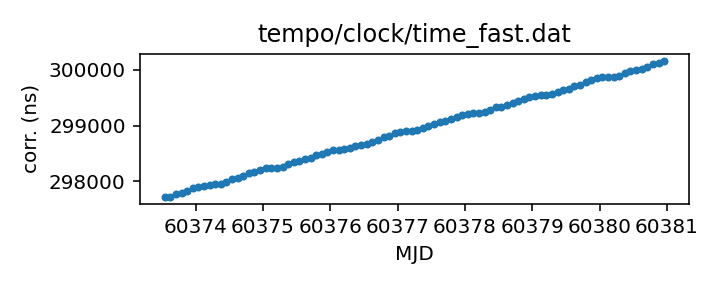
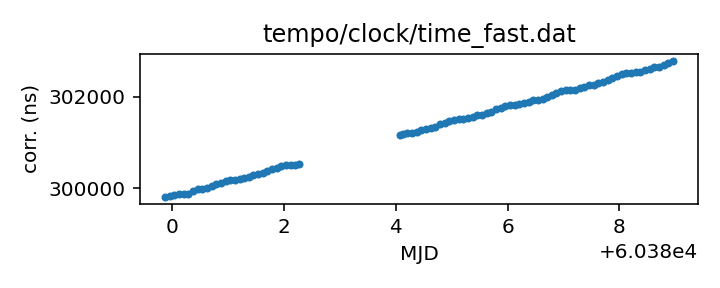
Routine gh-pages update from Github action Thu Mar 21 20:30:21 UTC 2024

diff --git a/status.md b/status.md
@@ -13,17 +13,17 @@ name of each clock file links to a page with more details.
 
 | Name | File | Corrections start | Corrections end | Last check date | Last check result 
 |:--- |:--- | --- | --- | --- |:--- 
-| [GPS to UTC](T2runtime/clock/gps2utc.clk.html) | `T2runtime/clock/gps2utc.clk` | 1993-01-01 MJD 48988.0 | 2024-02-29 MJD 60369.0 | 2024-03-20 | Unchanged 
-| [GPS to UTC (Combined Clock)](T2runtime/clock/gps2utc_cc.clk.html) | `T2runtime/clock/gps2utc_cc.clk` | 1993-01-01 MJD 48988.0 | 2024-02-29 MJD 60369.0 | 2024-03-20 | Unchanged 
-| [GPS to UTC (Corrected)](T2runtime/clock/gps2utc_c0p.clk.html) | `T2runtime/clock/gps2utc_c0p.clk` | 2010-12-29 MJD 55559.0 | 2024-02-29 MJD 60369.0 | 2024-03-20 | Unchanged 
-| [GBT](tempo/clock/time_gbt.dat.html) | `tempo/clock/time_gbt.dat` | 2000-12-31 MJD 51909.5 | 2024-03-19 MJD 60388.5 | 2024-03-20 | Updated 
-| [GBT (TEMPO2 converted from TEMPO)](T2runtime/clock/gbt2gps.clk.html) | `T2runtime/clock/gbt2gps.clk` | 2000-12-31 MJD 51909.5 | 2023-03-20 MJD 60023.5 | 2024-03-20 | **Validation failed** 
-| [Jodrell Bank](T2runtime/clock/jb2gps.clk.html) | `T2runtime/clock/jb2gps.clk` | 2006-10-13 MJD 54021.4 | 2023-12-04 MJD 60282.0 | 2024-03-14 | Unchanged 
-| [Jodrell Bank Roach](T2runtime/clock/jbroach2jb.clk.html) | `T2runtime/clock/jbroach2jb.clk` | 2006-10-13 MJD 54021.4 | 2018-03-20 MJD 58197.6 | 2024-03-14 | Unchanged 
-| [Jodrell Bank DFB](T2runtime/clock/jbdfb2jb.clk.html) | `T2runtime/clock/jbdfb2jb.clk` | 2006-10-13 MJD 54021.4 | 2017-05-11 MJD 57884.0 | 2024-03-14 | Unchanged 
-| [Meerkat (observatory)](T2runtime/clock/mk2utc_observatory.clk.html) | `T2runtime/clock/mk2utc_observatory.clk` | 2019-01-01 MJD 58484.0 | 2024-01-31 MJD 60341.0 | 2024-03-14 | Unchanged 
-| [Leap seconds](tempo/clock/leap.sec.html) | `tempo/clock/leap.sec` | 1972-07-01 MJD 41499.0 | 2017-01-01 MJD 57754.0 | 2024-03-20 | Unchanged 
-| [UT1 table](tempo/clock/ut1.dat.html) | `tempo/clock/ut1.dat` | 1973-01-02 MJD 41684.0 | 2025-03-22 MJD 60756.0 | 2024-03-20 | Unchanged 
+| [GPS to UTC](T2runtime/clock/gps2utc.clk.html) | `T2runtime/clock/gps2utc.clk` | 1993-01-01 MJD 48988.0 | 2024-02-29 MJD 60369.0 | 2024-03-21 | Unchanged 
+| [GPS to UTC (Combined Clock)](T2runtime/clock/gps2utc_cc.clk.html) | `T2runtime/clock/gps2utc_cc.clk` | 1993-01-01 MJD 48988.0 | 2024-02-29 MJD 60369.0 | 2024-03-21 | Unchanged 
+| [GPS to UTC (Corrected)](T2runtime/clock/gps2utc_c0p.clk.html) | `T2runtime/clock/gps2utc_c0p.clk` | 2010-12-29 MJD 55559.0 | 2024-02-29 MJD 60369.0 | 2024-03-21 | Unchanged 
+| [GBT](tempo/clock/time_gbt.dat.html) | `tempo/clock/time_gbt.dat` | 2000-12-31 MJD 51909.5 | 2024-03-20 MJD 60389.5 | 2024-03-21 | Updated 
+| [GBT (TEMPO2 converted from TEMPO)](T2runtime/clock/gbt2gps.clk.html) | `T2runtime/clock/gbt2gps.clk` | 2000-12-31 MJD 51909.5 | 2023-03-20 MJD 60023.5 | 2024-03-21 | **Validation failed** 
+| [Jodrell Bank](T2runtime/clock/jb2gps.clk.html) | `T2runtime/clock/jb2gps.clk` | 2006-10-13 MJD 54021.4 | 2023-12-04 MJD 60282.0 | 2024-03-21 | Unchanged 
+| [Jodrell Bank Roach](T2runtime/clock/jbroach2jb.clk.html) | `T2runtime/clock/jbroach2jb.clk` | 2006-10-13 MJD 54021.4 | 2018-03-20 MJD 58197.6 | 2024-03-21 | Unchanged 
+| [Jodrell Bank DFB](T2runtime/clock/jbdfb2jb.clk.html) | `T2runtime/clock/jbdfb2jb.clk` | 2006-10-13 MJD 54021.4 | 2017-05-11 MJD 57884.0 | 2024-03-21 | Unchanged 
+| [Meerkat (observatory)](T2runtime/clock/mk2utc_observatory.clk.html) | `T2runtime/clock/mk2utc_observatory.clk` | 2019-01-01 MJD 58484.0 | 2024-01-31 MJD 60341.0 | 2024-03-21 | Unchanged 
+| [Leap seconds](tempo/clock/leap.sec.html) | `tempo/clock/leap.sec` | 1972-07-01 MJD 41499.0 | 2017-01-01 MJD 57754.0 | 2024-03-21 | Unchanged 
+| [UT1 table](tempo/clock/ut1.dat.html) | `tempo/clock/ut1.dat` | 1973-01-02 MJD 41684.0 | 2025-03-29 MJD 60763.0 | 2024-03-21 | Updated 
 
 
 
@@ -65,24 +65,24 @@ name of each clock file links to a page with more details.
 
 | Name | File | Corrections start | Corrections end | Last check date | Last check result 
 |:--- |:--- | --- | --- | --- |:--- 
-| [GPS to UTC (TEMPO2)](T2runtime/clock/gps2utc_tempo2.clk.html) | `T2runtime/clock/gps2utc_tempo2.clk` | 1996-03-27 MJD 50169.0 | 2022-10-27 MJD 59879.0 | 2024-03-14 | Unchanged 
-| [GBT (TEMPO2)](T2runtime/clock/gbt2gps_tempo2.clk.html) | `T2runtime/clock/gbt2gps_tempo2.clk` | 2000-12-31 MJD 51909.5 | 2020-02-25 MJD 58904.5 | 2024-03-14 | Unchanged 
-| [Jodrell Bank (TEMPO)](tempo/clock/time_jb.dat.html) | `tempo/clock/time_jb.dat` | 2006-10-13 MJD 54021.4 | 2019-05-13 MJD 58616.2 | 2024-03-14 | Unchanged 
-| [VLA](tempo/clock/time_vla.dat.html) | `tempo/clock/time_vla.dat` | 1990-10-27 MJD 48191.2 | 2021-03-07 MJD 59280.5 | 2024-03-14 | Unchanged 
-| [VLA (TEMPO2)](T2runtime/clock/vla2gps.clk.html) | `T2runtime/clock/vla2gps.clk` | 2015-02-01 MJD 57054.6 | 2021-03-07 MJD 59280.5 | 2024-03-14 | Unchanged 
-| [VLA to NIST](T2runtime/clock/vla2nist.clk.html) | `T2runtime/clock/vla2nist.clk` | 1990-10-27 MJD 48191.2 | 1993-11-13 MJD 49304.0 | 2024-03-14 | Unchanged 
-| [FAST](tempo/clock/time_fast.dat.html) | `tempo/clock/time_fast.dat` | 2017-07-27 MJD 57961.0 | 2024-03-11 MJD 60381.0 | 2024-03-14 | Updated 
-| [WSRT](T2runtime/clock/wsrt2gps.clk.html) | `T2runtime/clock/wsrt2gps.clk` | 1999-01-01 MJD 51179.5 | 2015-06-29 MJD 57202.1 | 2024-03-14 | Unchanged 
-| [WSRT (TEMPO)](tempo/clock/time_wsrt.dat.html) | `tempo/clock/time_wsrt.dat` | 1987-07-24 MJD 47000.0 | 2007-12-24 MJD 54458.0 | 2024-03-14 | **Validation failed** 
-| [Parkes](T2runtime/clock/pks2gps.clk.html) | `T2runtime/clock/pks2gps.clk` | 1858-11-17 MJD 0.0 | 2024-02-29 MJD 60369.1 | 2024-03-14 | Updated 
-| [Parkes (TEMPO)](tempo/clock/time_pks.dat.html) | `tempo/clock/time_pks.dat` | 1979-05-07 MJD 44000.0 | 2011-07-03 MJD 55745.8 | 2024-03-14 | **Validation failed** 
-| [SRT](T2runtime/clock/srt2gps.clk.html) | `T2runtime/clock/srt2gps.clk` | 2013-03-20 MJD 56371.0 | 2019-12-11 MJD 58828.0 | 2024-03-14 | Unchanged 
-| [Effelsberg](T2runtime/clock/eff2gps.clk.html) | `T2runtime/clock/eff2gps.clk` | 1993-11-29 MJD 49320.0 | 2015-06-22 MJD 57195.5 | 2024-03-14 | Unchanged 
-| [Effelsberg Asterix/PSRix](T2runtime/clock/effix2gps.clk.html) | `T2runtime/clock/effix2gps.clk` | 2011-01-01 MJD 55562.5 | 2021-03-21 MJD 59294.5 | 2024-03-14 | Unchanged 
-| [LEAP](T2runtime/clock/leap2effix.clk.html) | `T2runtime/clock/leap2effix.clk` | 2012-10-29 MJD 56230.0 | 2014-03-04 MJD 56720.0 | 2024-03-14 | Unchanged 
-| [NUPPI](tempo/clock/time_nuppi.dat.html) | `tempo/clock/time_nuppi.dat` | 2005-03-07 MJD 53436.0 | 2015-11-08 MJD 57334.6 | 2024-03-14 | Unchanged 
+| [GPS to UTC (TEMPO2)](T2runtime/clock/gps2utc_tempo2.clk.html) | `T2runtime/clock/gps2utc_tempo2.clk` | 1996-03-27 MJD 50169.0 | 2022-10-27 MJD 59879.0 | 2024-03-21 | Unchanged 
+| [GBT (TEMPO2)](T2runtime/clock/gbt2gps_tempo2.clk.html) | `T2runtime/clock/gbt2gps_tempo2.clk` | 2000-12-31 MJD 51909.5 | 2020-02-25 MJD 58904.5 | 2024-03-21 | Unchanged 
+| [Jodrell Bank (TEMPO)](tempo/clock/time_jb.dat.html) | `tempo/clock/time_jb.dat` | 2006-10-13 MJD 54021.4 | 2019-05-13 MJD 58616.2 | 2024-03-21 | Unchanged 
+| [VLA](tempo/clock/time_vla.dat.html) | `tempo/clock/time_vla.dat` | 1990-10-27 MJD 48191.2 | 2021-03-07 MJD 59280.5 | 2024-03-21 | Unchanged 
+| [VLA (TEMPO2)](T2runtime/clock/vla2gps.clk.html) | `T2runtime/clock/vla2gps.clk` | 2015-02-01 MJD 57054.6 | 2021-03-07 MJD 59280.5 | 2024-03-21 | Unchanged 
+| [VLA to NIST](T2runtime/clock/vla2nist.clk.html) | `T2runtime/clock/vla2nist.clk` | 1990-10-27 MJD 48191.2 | 1993-11-13 MJD 49304.0 | 2024-03-21 | Unchanged 
+| [FAST](tempo/clock/time_fast.dat.html) | `tempo/clock/time_fast.dat` | 2017-07-27 MJD 57961.0 | 2024-03-19 MJD 60389.0 | 2024-03-21 | Updated 
+| [WSRT](T2runtime/clock/wsrt2gps.clk.html) | `T2runtime/clock/wsrt2gps.clk` | 1999-01-01 MJD 51179.5 | 2015-06-29 MJD 57202.1 | 2024-03-21 | Unchanged 
+| [WSRT (TEMPO)](tempo/clock/time_wsrt.dat.html) | `tempo/clock/time_wsrt.dat` | 1987-07-24 MJD 47000.0 | 2007-12-24 MJD 54458.0 | 2024-03-21 | **Validation failed** 
+| [Parkes](T2runtime/clock/pks2gps.clk.html) | `T2runtime/clock/pks2gps.clk` | 1858-11-17 MJD 0.0 | 2024-02-29 MJD 60369.1 | 2024-03-21 | Unchanged 
+| [Parkes (TEMPO)](tempo/clock/time_pks.dat.html) | `tempo/clock/time_pks.dat` | 1979-05-07 MJD 44000.0 | 2011-07-03 MJD 55745.8 | 2024-03-21 | **Validation failed** 
+| [SRT](T2runtime/clock/srt2gps.clk.html) | `T2runtime/clock/srt2gps.clk` | 2013-03-20 MJD 56371.0 | 2019-12-11 MJD 58828.0 | 2024-03-21 | Unchanged 
+| [Effelsberg](T2runtime/clock/eff2gps.clk.html) | `T2runtime/clock/eff2gps.clk` | 1993-11-29 MJD 49320.0 | 2015-06-22 MJD 57195.5 | 2024-03-21 | Unchanged 
+| [Effelsberg Asterix/PSRix](T2runtime/clock/effix2gps.clk.html) | `T2runtime/clock/effix2gps.clk` | 2011-01-01 MJD 55562.5 | 2021-03-21 MJD 59294.5 | 2024-03-21 | Unchanged 
+| [LEAP](T2runtime/clock/leap2effix.clk.html) | `T2runtime/clock/leap2effix.clk` | 2012-10-29 MJD 56230.0 | 2014-03-04 MJD 56720.0 | 2024-03-21 | Unchanged 
+| [NUPPI](tempo/clock/time_nuppi.dat.html) | `tempo/clock/time_nuppi.dat` | 2005-03-07 MJD 53436.0 | 2015-11-08 MJD 57334.6 | 2024-03-21 | Unchanged 
 | [Meerkat (TEMPO2)](T2runtime/clock/mk2utc.clk.html) | `T2runtime/clock/mk2utc.clk` | 2019-01-01 MJD 58484.0 | 2023-10-18 MJD 60235.9 | 2024-03-18 | Unchanged 
-| [MOST](T2runtime/clock/mo2gps.clk.html) | `T2runtime/clock/mo2gps.clk` | 2003-12-27 MJD 53000.0 | 2018-09-06 MJD 58367.0 | 2024-03-14 | Unchanged 
+| [MOST](T2runtime/clock/mo2gps.clk.html) | `T2runtime/clock/mo2gps.clk` | 2003-12-27 MJD 53000.0 | 2018-09-06 MJD 58367.0 | 2024-03-21 | Unchanged 
 | [Nancay to obspm](T2runtime/clock/ncyobs2obspm.clk.html) | `T2runtime/clock/ncyobs2obspm.clk` | 1988-05-18 MJD 47299.6 | 2023-10-27 MJD 60244.0 | 2024-03-20 | Unchanged 
 | [obspm](T2runtime/clock/obspm2gps.clk.html) | `T2runtime/clock/obspm2gps.clk` | 2003-12-01 MJD 52974.0 | 2023-10-27 MJD 60244.0 | 2024-03-20 | Unchanged 
 

diff --git a/tempo/clock/time_pks.dat.md b/tempo/clock/time_pks.dat.md
@@ -20,12 +20,11 @@ telescopes in the same file, distinguished only by observatory code.
 | Clock file start | 1979-05-07 MJD 44000.0 |
 | Clock file end | 2011-07-03 MJD 55745.8 |
 | Update interval (days) | 7 |
-| Last update attempt | 2024-03-14 |
+| Last update attempt | 2024-03-21 |
 | Last update result | Validation failed |
 
 Log entries from the last few update attempts:
 ```
-2024-01-11 20:30:15.803 - Validation failed: Unable to read new version of tempo/clock/time_pks.dat: Clock file /tmp/astropy-download-1836-pi4hbxxj appears to be out of order
 2024-01-18 20:29:59.171 - Validation failed: Unable to read new version of tempo/clock/time_pks.dat: Clock file /tmp/astropy-download-1811-rrpdm8ca appears to be out of order
 2024-01-25 20:29:36.041 - Validation failed: Unable to read new version of tempo/clock/time_pks.dat: Clock file /tmp/astropy-download-1900-0idy_odh appears to be out of order
 2024-02-01 20:29:37.102 - Validation failed: Unable to read new version of tempo/clock/time_pks.dat: Clock file /tmp/astropy-download-1816-okvvhk9o appears to be out of order
@@ -35,6 +34,7 @@ Log entries from the last few update attempts:
 2024-02-29 20:29:37.500 - Validation failed: Unable to read new version of tempo/clock/time_pks.dat: Clock file /tmp/astropy-download-1810-sn87ef0r appears to be out of order: 49959.0 > 49958.0
 2024-03-07 20:30:02.201 - Validation failed: Unable to read new version of tempo/clock/time_pks.dat: Clock file /tmp/astropy-download-1997-a8wm1p2b appears to be out of order: 49959.0 > 49958.0
 2024-03-14 20:29:37.280 - Validation failed: Unable to read new version of tempo/clock/time_pks.dat: Clock file /tmp/astropy-download-1789-i6da_346 appears to be out of order: 49959.0 > 49958.0
+2024-03-21 20:29:48.248 - Validation failed: Unable to read new version of tempo/clock/time_pks.dat: Clock file /tmp/astropy-download-1983-p8p10h_t appears to be out of order: 49959.0 > 49958.0
 ```
 [Full log](https://raw.githubusercontent.com/ipta/pulsar-clock-corrections/main/log/tempo/clock/time_pks.dat.log)
 

diff --git a/tempo/clock/time_wsrt.dat.md b/tempo/clock/time_wsrt.dat.md
@@ -20,12 +20,11 @@ should be the same information.
 | Clock file start | 1987-07-24 MJD 47000.0 |
 | Clock file end | 2007-12-24 MJD 54458.0 |
 | Update interval (days) | 7 |
-| Last update attempt | 2024-03-14 |
+| Last update attempt | 2024-03-21 |
 | Last update result | Validation failed |
 
 Log entries from the last few update attempts:
 ```
-2024-01-11 20:30:10.381 - Validation failed: Unable to read new version of tempo/clock/time_wsrt.dat: Clock file /tmp/astropy-download-1836-0nvh625l appears to be out of order
 2024-01-18 20:29:55.192 - Validation failed: Unable to read new version of tempo/clock/time_wsrt.dat: Clock file /tmp/astropy-download-1811-4vnrq20h appears to be out of order
 2024-01-25 20:29:31.258 - Validation failed: Unable to read new version of tempo/clock/time_wsrt.dat: Clock file /tmp/astropy-download-1900-mec4_oar appears to be out of order
 2024-02-01 20:29:31.547 - Validation failed: Unable to read new version of tempo/clock/time_wsrt.dat: Clock file /tmp/astropy-download-1816-1ws_cqpx appears to be out of order
@@ -35,6 +34,7 @@ Log entries from the last few update attempts:
 2024-02-29 20:29:32.708 - Validation failed: Unable to read new version of tempo/clock/time_wsrt.dat: Clock file /tmp/astropy-download-1810-gqrpdwt_ appears to be out of order: 53000.05 > 53000.0
 2024-03-07 20:29:57.677 - Validation failed: Unable to read new version of tempo/clock/time_wsrt.dat: Clock file /tmp/astropy-download-1997-9f3c9zsx appears to be out of order: 53000.05 > 53000.0
 2024-03-14 20:29:28.740 - Validation failed: Unable to read new version of tempo/clock/time_wsrt.dat: Clock file /tmp/astropy-download-1789-qmkos7mt appears to be out of order: 53000.05 > 53000.0
+2024-03-21 20:29:42.142 - Validation failed: Unable to read new version of tempo/clock/time_wsrt.dat: Clock file /tmp/astropy-download-1983-7dg1tve1 appears to be out of order: 53000.05 > 53000.0
 ```
 [Full log](https://raw.githubusercontent.com/ipta/pulsar-clock-corrections/main/log/tempo/clock/time_wsrt.dat.log)
 

diff --git a/T2runtime/clock/gbt2gps.clk.md b/T2runtime/clock/gbt2gps.clk.md
@@ -25,12 +25,11 @@ If questions arise about the conversion, contact Anne Archibald
 | Clock file start | 2000-12-31 MJD 51909.5 |
 | Clock file end | 2023-03-20 MJD 60023.5 |
 | Update interval (days) | 1 |
-| Last update attempt | 2024-03-20 |
+| Last update attempt | 2024-03-21 |
 | Last update result | Validation failed |
 
 Log entries from the last few update attempts:
 ```
-2024-03-11 20:29:30.824 - Validation failed: New version of T2runtime/clock/gbt2gps.clk clock corrections differ from old version where they overlap in 11 places
 2024-03-12 20:29:44.974 - Validation failed: New version of T2runtime/clock/gbt2gps.clk clock corrections differ from old version where they overlap in 11 places
 2024-03-13 20:29:16.802 - Validation failed: New version of T2runtime/clock/gbt2gps.clk clock corrections differ from old version where they overlap in 11 places
 2024-03-14 20:29:26.694 - Validation failed: New version of T2runtime/clock/gbt2gps.clk clock corrections differ from old version where they overlap in 11 places
@@ -40,6 +39,7 @@ Log entries from the last few update attempts:
 2024-03-18 20:29:24.548 - Validation failed: New version of T2runtime/clock/gbt2gps.clk clock corrections differ from old version where they overlap in 11 places
 2024-03-19 20:29:39.312 - Validation failed: New version of T2runtime/clock/gbt2gps.clk clock corrections differ from old version where they overlap in 11 places
 2024-03-20 20:29:34.113 - Validation failed: New version of T2runtime/clock/gbt2gps.clk clock corrections differ from old version where they overlap in 11 places
+2024-03-21 20:29:38.232 - Validation failed: New version of T2runtime/clock/gbt2gps.clk clock corrections differ from old version where they overlap in 11 places
 ```
 [Full log](https://raw.githubusercontent.com/ipta/pulsar-clock-corrections/main/log/T2runtime/clock/gbt2gps.clk.log)
 

diff --git a/tempo/clock/ut1.dat.md b/tempo/clock/ut1.dat.md
@@ -28,14 +28,13 @@ If there are any questions, contact Anne Archibald
 | File | `tempo/clock/ut1.dat` |
 | Authority | observatory |
 | File start | 1973-01-02 MJD 41684.0 |
-| File end | 2025-03-22 MJD 60756.0 |
+| File end | 2025-03-29 MJD 60763.0 |
 | Update interval (days) | 0 |
-| Last update attempt | 2024-03-20 |
-| Last update result | Unchanged |
+| Last update attempt | 2024-03-21 |
+| Last update result | Updated |
 
 Log entries from the last few update attempts:
 ```
-2024-03-11 20:29:48.130 - Unchanged
 2024-03-12 20:29:57.914 - Unchanged
 2024-03-13 20:29:25.426 - Unchanged
 2024-03-14 20:29:50.414 - Updated
@@ -45,5 +44,6 @@ Log entries from the last few update attempts:
 2024-03-18 20:29:32.161 - Unchanged
 2024-03-19 20:29:51.149 - Unchanged
 2024-03-20 20:29:43.606 - Unchanged
+2024-03-21 20:30:02.563 - Updated
 ```
 [Full log](https://raw.githubusercontent.com/ipta/pulsar-clock-corrections/main/log/tempo/clock/ut1.dat.log)

diff --git a/tempo/clock/time_gbt.dat.md b/tempo/clock/time_gbt.dat.md
@@ -31,14 +31,13 @@ If questions arise, contact Ryan S. Lynch <rlynch@nrao.edu>.
 | Format | tempo |
 | Bogus last correction | False |
 | Clock file start | 2000-12-31 MJD 51909.5 |
-| Clock file end | 2024-03-19 MJD 60388.5 |
+| Clock file end | 2024-03-20 MJD 60389.5 |
 | Update interval (days) | 1 |
-| Last update attempt | 2024-03-20 |
+| Last update attempt | 2024-03-21 |
 | Last update result | Updated |
 
 Log entries from the last few update attempts:
 ```
-2024-03-11 20:29:30.766 - Updated
 2024-03-12 20:29:44.917 - Updated
 2024-03-13 20:29:16.745 - Updated
 2024-03-14 20:29:26.428 - Updated
@@ -48,6 +47,7 @@ Log entries from the last few update attempts:
 2024-03-18 20:29:24.492 - Updated
 2024-03-19 20:29:39.255 - Updated
 2024-03-20 20:29:34.056 - Updated
+2024-03-21 20:29:37.855 - Updated
 ```
 [Full log](https://raw.githubusercontent.com/ipta/pulsar-clock-corrections/main/log/tempo/clock/time_gbt.dat.log)
 

diff --git a/tempo/clock/time_fast.dat.md b/tempo/clock/time_fast.dat.md
@@ -14,14 +14,13 @@ This file is pulled from the FAST_ClockFile repository.
 | Format | tempo |
 | Bogus last correction | False |
 | Clock file start | 2017-07-27 MJD 57961.0 |
-| Clock file end | 2024-03-11 MJD 60381.0 |
+| Clock file end | 2024-03-19 MJD 60389.0 |
 | Update interval (days) | 7 |
-| Last update attempt | 2024-03-14 |
+| Last update attempt | 2024-03-21 |
 | Last update result | Updated |
 
 Log entries from the last few update attempts:
 ```
-2024-01-11 20:30:09.582 - Updated
 2024-01-18 20:29:54.505 - Updated
 2024-01-25 20:29:30.838 - Unchanged
 2024-02-01 20:29:31.050 - Updated
@@ -31,6 +30,7 @@ Log entries from the last few update attempts:
 2024-02-29 20:29:31.485 - Updated
 2024-03-07 20:29:57.010 - Updated
 2024-03-14 20:29:28.347 - Updated
+2024-03-21 20:29:41.522 - Updated
 ```
 [Full log](https://raw.githubusercontent.com/ipta/pulsar-clock-corrections/main/log/tempo/clock/time_fast.dat.log)
 

diff --git a/T2runtime/clock/mk2utc_observatory.clk.md b/T2runtime/clock/mk2utc_observatory.clk.md
@@ -21,12 +21,11 @@ If questions arise, contact Ryan Shannon <rshannon@swin.edu.au>
 | Clock file start | 2019-01-01 MJD 58484.0 |
 | Clock file end | 2024-01-31 MJD 60341.0 |
 | Update interval (days) | 7 |
-| Last update attempt | 2024-03-14 |
+| Last update attempt | 2024-03-21 |
 | Last update result | Unchanged |
 
 Log entries from the last few update attempts:
 ```
-2024-01-11 20:30:22.102 - Unchanged
 2024-01-18 20:30:05.250 - Unchanged
 2024-01-25 20:29:40.542 - Unchanged
 2024-02-01 20:29:41.481 - Updated
@@ -36,6 +35,7 @@ Log entries from the last few update attempts:
 2024-02-29 20:29:42.096 - Unchanged
 2024-03-07 20:30:06.819 - Unchanged
 2024-03-14 20:29:41.493 - Unchanged
+2024-03-21 20:29:53.172 - Unchanged
 ```
 [Full log](https://raw.githubusercontent.com/ipta/pulsar-clock-corrections/main/log/T2runtime/clock/mk2utc_observatory.clk.log)
 

diff --git a/T2runtime/clock/gps2utc_c0p.clk.md b/T2runtime/clock/gps2utc_c0p.clk.md
@@ -30,12 +30,11 @@ about the BIPM's published corrections, contact <tai@bipm.org>.
 | Clock file start | 2010-12-29 MJD 55559.0 |
 | Clock file end | 2024-02-29 MJD 60369.0 |
 | Update interval (days) | 1 |
-| Last update attempt | 2024-03-20 |
+| Last update attempt | 2024-03-21 |
 | Last update result | Unchanged |
 
 Log entries from the last few update attempts:
 ```
-2024-03-11 20:29:29.856 - Unchanged
 2024-03-12 20:29:43.923 - Updated
 2024-03-13 20:29:16.545 - Unchanged
 2024-03-14 20:29:26.072 - Unchanged
@@ -45,6 +44,7 @@ Log entries from the last few update attempts:
 2024-03-18 20:29:24.015 - Unchanged
 2024-03-19 20:29:38.346 - Unchanged
 2024-03-20 20:29:33.805 - Unchanged
+2024-03-21 20:29:37.328 - Unchanged
 ```
 [Full log](https://raw.githubusercontent.com/ipta/pulsar-clock-corrections/main/log/T2runtime/clock/gps2utc_c0p.clk.log)
 

diff --git a/T2runtime/clock/gps2utc_cc.clk.md b/T2runtime/clock/gps2utc_cc.clk.md
@@ -29,12 +29,11 @@ about the BIPM's published corrections, contact <tai@bipm.org>.
 | Clock file start | 1993-01-01 MJD 48988.0 |
 | Clock file end | 2024-02-29 MJD 60369.0 |
 | Update interval (days) | 1 |
-| Last update attempt | 2024-03-20 |
+| Last update attempt | 2024-03-21 |
 | Last update result | Unchanged |
 
 Log entries from the last few update attempts:
 ```
-2024-03-11 20:29:29.847 - Unchanged
 2024-03-12 20:29:43.897 - Updated
 2024-03-13 20:29:16.536 - Unchanged
 2024-03-14 20:29:26.063 - Unchanged
@@ -44,6 +43,7 @@ Log entries from the last few update attempts:
 2024-03-18 20:29:24.006 - Unchanged
 2024-03-19 20:29:38.337 - Unchanged
 2024-03-20 20:29:33.796 - Unchanged
+2024-03-21 20:29:37.319 - Unchanged
 ```
 [Full log](https://raw.githubusercontent.com/ipta/pulsar-clock-corrections/main/log/T2runtime/clock/gps2utc_cc.clk.log)
 

diff --git a/T2runtime/clock/gps2utc.clk.md b/T2runtime/clock/gps2utc.clk.md
@@ -32,12 +32,11 @@ about the BIPM's published corrections, contact <tai@bipm.org>.
 | Clock file start | 1993-01-01 MJD 48988.0 |
 | Clock file end | 2024-02-29 MJD 60369.0 |
 | Update interval (days) | 1 |
-| Last update attempt | 2024-03-20 |
+| Last update attempt | 2024-03-21 |
 | Last update result | Unchanged |
 
 Log entries from the last few update attempts:
 ```
-2024-03-11 20:29:29.820 - Unchanged
 2024-03-12 20:29:43.834 - Updated
 2024-03-13 20:29:16.510 - Unchanged
 2024-03-14 20:29:26.038 - Unchanged
@@ -47,6 +46,7 @@ Log entries from the last few update attempts:
 2024-03-18 20:29:23.980 - Unchanged
 2024-03-19 20:29:38.312 - Unchanged
 2024-03-20 20:29:33.771 - Unchanged
+2024-03-21 20:29:37.293 - Unchanged
 ```
 [Full log](https://raw.githubusercontent.com/ipta/pulsar-clock-corrections/main/log/T2runtime/clock/gps2utc.clk.log)
 

diff --git a/T2runtime/clock/leap2effix.clk.md b/T2runtime/clock/leap2effix.clk.md
@@ -23,12 +23,11 @@ thus here) can be expected to be somewhat up to date.
 | Clock file start | 2012-10-29 MJD 56230.0 |
 | Clock file end | 2014-03-04 MJD 56720.0 |
 | Update interval (days) | 7 |
-| Last update attempt | 2024-03-14 |
+| Last update attempt | 2024-03-21 |
 | Last update result | Unchanged |
 
 Log entries from the last few update attempts:
 ```
-2024-01-11 20:30:17.855 - Unchanged
 2024-01-18 20:30:00.964 - Unchanged
 2024-01-25 20:29:36.828 - Unchanged
 2024-02-01 20:29:37.839 - Unchanged
@@ -38,6 +37,7 @@ Log entries from the last few update attempts:
 2024-02-29 20:29:38.621 - Unchanged
 2024-03-07 20:30:03.329 - Unchanged
 2024-03-14 20:29:37.915 - Unchanged
+2024-03-21 20:29:49.526 - Unchanged
 ```
 [Full log](https://raw.githubusercontent.com/ipta/pulsar-clock-corrections/main/log/T2runtime/clock/leap2effix.clk.log)
 
